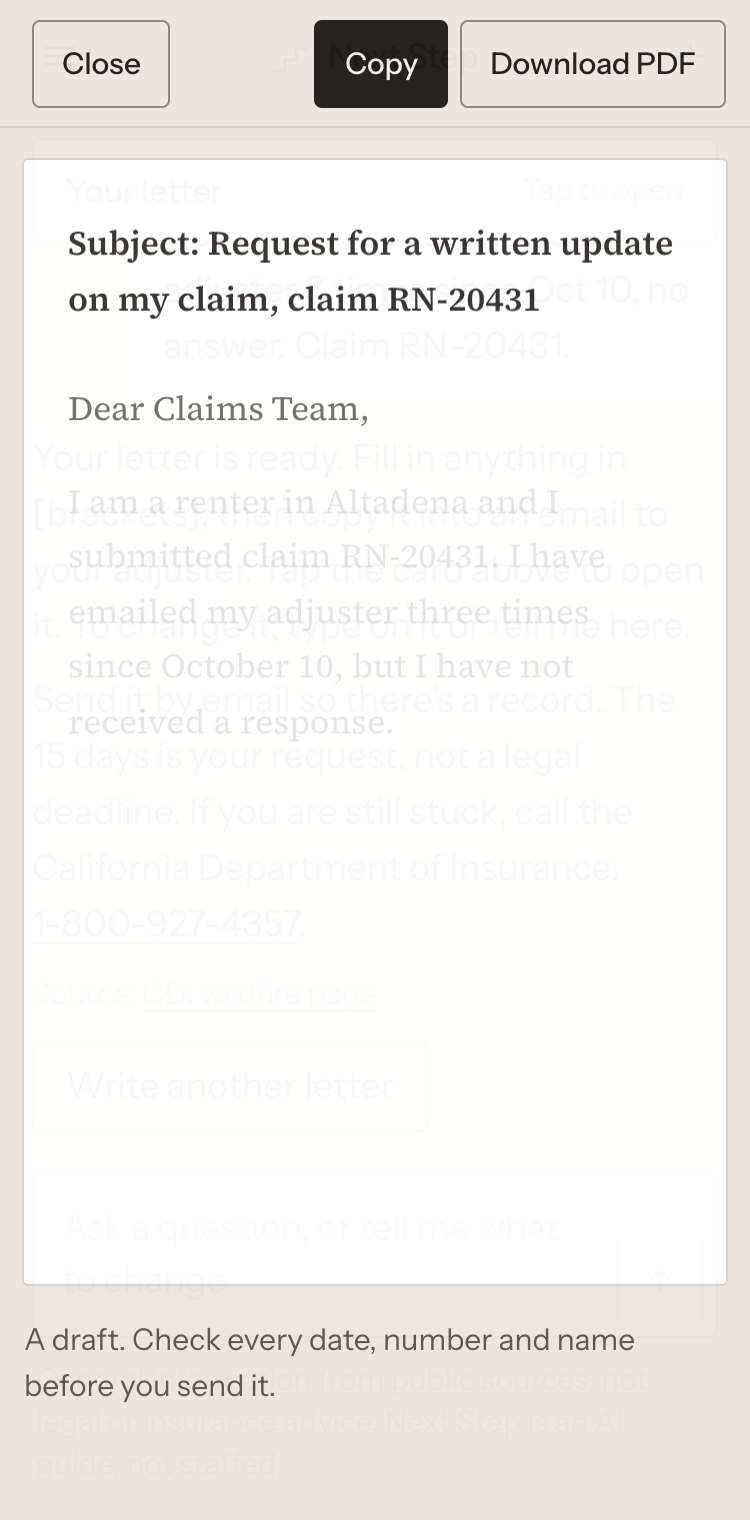
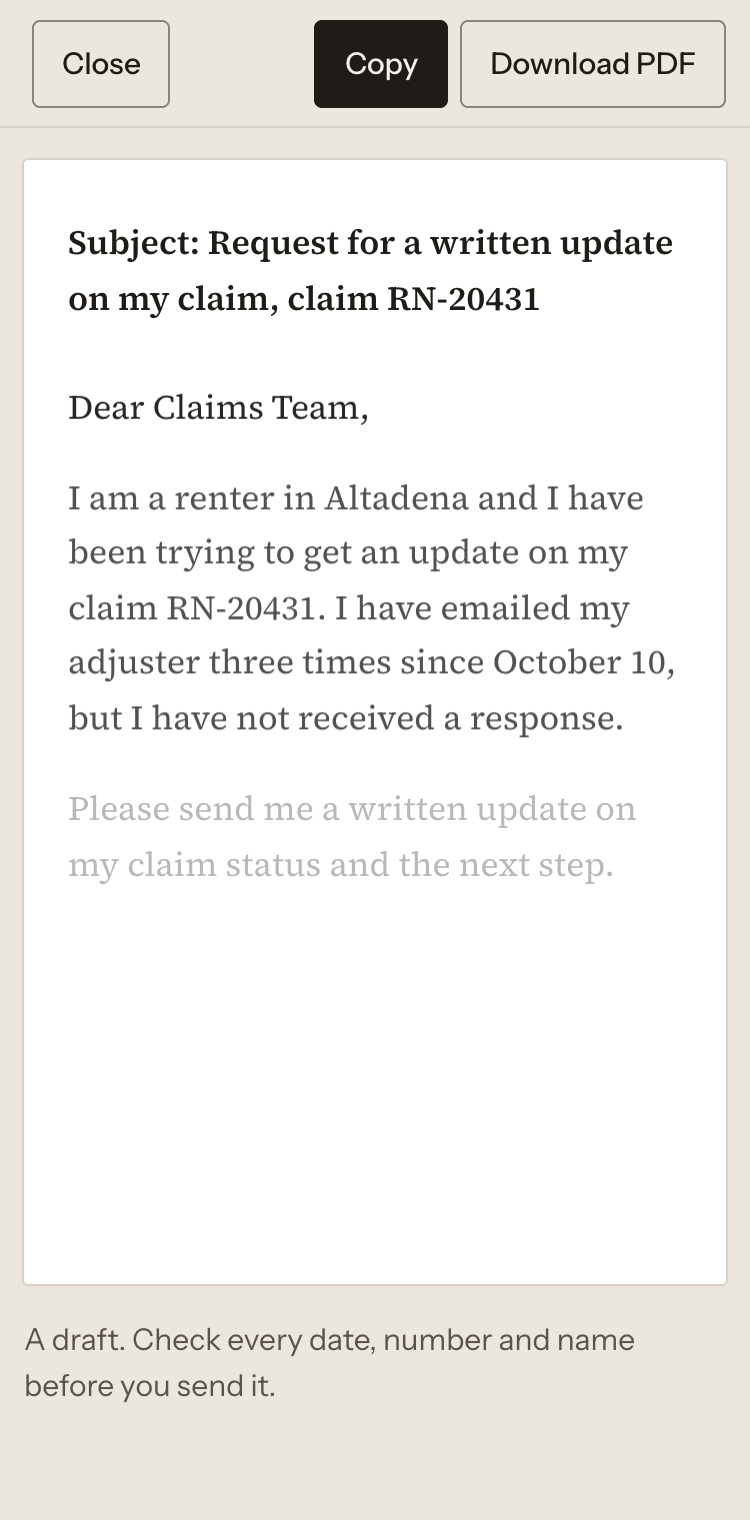
Docs: phase 3 decisions, measured contrast in both themes, timed strangers, real-model runs 6 and 7, Spanish strings for a native speaker

diff --git a/docs/DESIGN.md b/docs/DESIGN.md
@@ -78,6 +78,28 @@ Every text pair is AA (4.5) and every outline is at least 3. The test suite also
 | outline on paper | 3.3 | 3.7 |
 | outline on sheet | 3.7 | 3.4 |
 
+### Five strangers, timed (phase 3)
+Run by `node dev/strangers.mjs <preview url> docs/strangers` against the preview with the real model, Nov 26. Each starts cold on the landing page with one sentence of context and ends when the finished letter is copied. Waits for the site and the model are measured; reading, deciding, tapping and typing are modelled from the words actually on each screen at each person's pace (older reader 130 words a minute, others 190 to 230). A stand-in for five real people, not a replacement: the bar of five real new users still needs five real people. Screenshots of every step and the timing logs are in `docs/strangers`.
+
+| Person | Device | Path | Time to a finished letter |
+|---|---|---|---|
+| Renter, insurer quiet for six weeks | 375 px phone | taps, then a sentence | 3 min 25 s |
+| Older reader, offer too low, watches the demo first | laptop, 125% text | taps, then a sentence | 4 min 44 s |
+| Spanish speaker, smoke claim denied | 375 px phone, browser in Spanish | taps, Spanish notes, reads the Spanish copy | 4 min 56 s |
+| Has the insurer's email open | laptop | pastes their message, takes the suggested ask | 2 min 15 s |
+| Types instead of tapping, then asks for a change | 768 px tablet | types the situation, asks "make it shorter" | 3 min 8 s |
+
+- All five under 5 minutes, against the 10 minute bar. The model was quick (2 to 4 seconds a step); most of the time is reading.
+- The landing demo (about 18 seconds) cost the one person who chose to watch it about 27 seconds including its footer. Start is above it, so no one else waited on it. Not shortened.
+- Pauses found and fixed on the way: on a phone the asks could sit under the message box (a tall question now shows from its first line); "Ver cómo funciona" broke over two lines in its button; "Soy dueño" was gendered (now "Es mía"); the Spanish footer took four lines on a phone; "Get a second contractor estimate" read as if the site would get one (now "Review my own contractor’s estimate").
+- Still worth watching with real people: the phone paper opens over the chat when the letter arrives, so the done message (fill in the [brackets], what happens next) is under it until Close; "Me pusieron trabas con el reclamo" as the first Spanish tap.
+
+### The real model in both languages (runs 6 and 7)
+`node dev/real-run.mjs` now runs 45 situations: the 24 English ones and 21 Spanish ones (7 letters from Spanish notes including "42.300", "96 mil" and "siete semanas", 3 edits asked in Spanish, 3 messages explained in Spanish including one the insurer wrote in Spanish, 3 sheets, 5 chats). Every output is in docs/real-ai/run-6.md and run-7.md.
+- Run 6: the script flagged one false alarm (a source number [10] read as a number). Reading every output found what the script did not: "However," added to letters in both languages, an ask said a second time ("You should explain your decision..."), a question kept as a second request ("I was wondering if my policy covers a hotel"), and "I have some concerns about the amount" added to what to say on a call. All four are now removed in code, and the script flags each.
+- Run 7: no invented number, rule or phone line in either language; every Spanish copy line passed its checks (none had to be shown in English). Two flags, both read: an edit turned "three times" into "multiple" (now refused: number words are facts), and a chat suggested making "a list of questions and concerns" (not a worry put in the person's mouth; that flag no longer applies to chat).
+- Read but not changed: the model's Spanish is correct but sometimes literal ("Estoy escribiendo para..."), and one explanation called the release "recibo" (the prompt now names it "documento de liberación (release)").
+
 ### Spanish strings for a native speaker (unreviewed draft)
 All Spanish is in `T_ES` and `STATIC_ES` (`public/desk.js`), `ES` (`public/landing.js`) and `ASK_ES`, `ASK_SUBJECT_ES`, `SHEET_ES` and the `M(...)` labels (`public/content.js`). Most worth a native speaker's eye:
 1. "Me pusieron trabas con el reclamo" for "They pushed back on my claim" (the first tap).

diff --git a/docs/real-ai/README.md b/docs/real-ai/README.md
@@ -1,7 +1,9 @@
-# Real model output on the desk/phase-2 preview
+# Real model output on the desk/phase-2 and desk/phase-3 previews
 
 Preview: https://desk-phase-2.next-step-2fg.pages.dev (Cloudflare Workers AI, Llama 3.3 70B, the same free model the live site uses).
 Each run is 24 fixed situations from `dev/real-run.mjs`: 8 letters (including Phillipa's $96,000 estimate and $42,300 offer, a renter, a smoke denial, no notes, a worry that must not become a fact, and two follow-up emails from call and visit logs), 4 chat edits, 3 pasted insurer messages with their reply letters, 5 call and visit sheets, and 4 chat messages. Every output was read by a person (Claude), not only by the script.
+
+Runs 6 and 7 are on https://desk-phase-3.next-step-2fg.pages.dev and add 21 Spanish situations (a Spanish speaker's notes, edits, messages, sheets and chats), 45 in all. In Spanish the letter is English with a checked Spanish copy; see docs/DESIGN.md.
 
 ## What was wrong, and what fixed it
 | Found in | Problem | Fix (lib/core.js unless noted) | Held in |
@@ -24,3 +26,10 @@ Each run is 24 fixed situations from `dev/real-run.mjs`: 8 letters (including Ph
 - Run 5, L1: "Your offer of $42,300 is lower than the estimated cost": true from her own numbers, but a comparison she did not write. Not caught by the clean-up.
 - Run 5, R3: an edit adding a photo date kept every date and amount but dropped the denial reason ("no direct physical loss") and the smoke smell. The fact check covers numbers only; words-level facts are the next thing to guard, or a stronger model.
 - An edit that adds a fact to a long letter can still be refused as "would lose details". That is the honest outcome, not a wrong letter.
+| run 6 | "However," added to letters (English and Spanish notes) | Contrast words the notes did not give are dropped, the fact kept | run 7 |
+| run 6 | Ask said twice: "You should explain your decision…" | A sentence that restates the ask or tells the insurer what it should do is dropped | run 7 |
+| run 6 | A question in the notes kept as a second request ("I was wondering if my policy covers a hotel") | Questions in the facts are dropped | run 7 |
+| run 6 | "I have some concerns about the amount" added to what to say on a call | "concerns" (and "preocupaciones") count as an added worry | run 7 |
+| run 6 | The script counted the source number [10] as a number | The script ignores source numbers | run 7 |
+| run 7 | An edit turned "three times" into "multiple" | Number words are facts an edit must keep; otherwise refused honestly | tests (next run) |
+

diff --git a/README.md b/README.md
@@ -5,7 +5,8 @@ A free guide for California wildfire survivors dealing with a home insurance cla
 - `public/` is the website (plain HTML, CSS and JavaScript, no build step).
 - `functions/api/chat.js` and `lib/core.js` are the small backend. It answers typed questions, writes letters and explains insurer messages. All prompts live on the server, and every rule, number and phone number must come from `public/sources.json`.
 - `dev/dev-server.js` runs everything on your laptop with a pretend AI, so you can test with no account.
-- `tests/run.mjs` is the automated browser test (135 checks).
+- `tests/run.mjs` is the automated browser test (286 checks).
+- English and Spanish: Spanish follows the browser language, `?lang=es`, or the "Español" link. Letters to the insurer stay in English with a checked Spanish copy (see `docs/DESIGN.md`). Dark mode is a toggle; light loads first. Download PDF is made in the browser by `public/pdf.js`.
 - `docs/DESIGN.md` explains the look (colour, type, layout) and lists what is flagged and not settled.
 - `docs/FEEDBACK_MAP.md` shows which interview feedback went into this version and what is still open.
 
